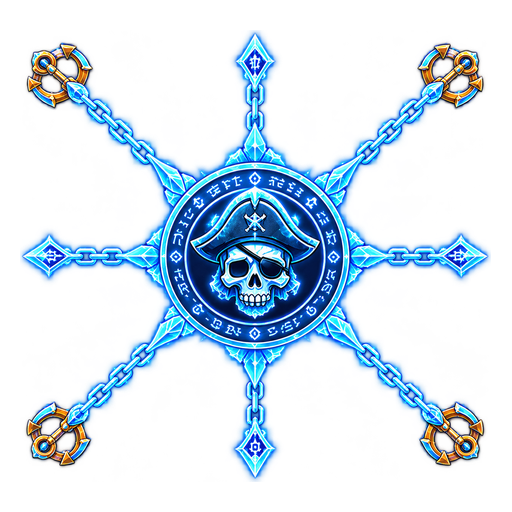
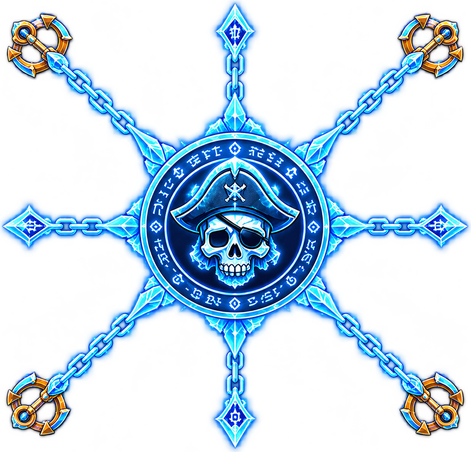
fix(annonces): l'annonce de bonus se posait HORS de l'ecran, et le givre couvre enfin les neuf cases
VOICI LE MESSAGE QUI S'AFFICHAIT DERRIERE L'ENCOCHE. `.dc-cast` — la carte qui
dit « untel a joue tel effet » — portait `bottom: calc(100% + 10px)`, ce qui
place un element ENTIEREMENT AU-DESSUS de son parent. La regle avait ete ecrite
pour un parent qui etait une petite barre au milieu de l'ecran ; le JS
l'accroche a `.dc-arena`, qui occupe TOUT l'ecran de jeu. « Au-dessus de
l'arene » voulait donc dire hors cadre, sous la barre de l'entete et sous
l'encoche de l'iPhone. La regle et le point d'accrochage avaient diverge, et
rien ne pouvait le signaler : une position hors cadre est parfaitement valide
pour le navigateur.

Elle revient AU CENTRE, la ou l'oeil est deja. La raison qui l'en avait chassee
— le gobelet flottait au milieu — a disparu depuis que le gobelet est dans le
bandeau du bas. La banniere courte s'ecarte a 26 % pour ne pas la recouvrir ;
elle n'a jamais ete celle qui passait sous l'encoche.

« LA GRILLE », CE N'EST NI LE BLOC NI LE PLATEAU : CE SONT LES NEUF CASES. Le
givre a couvert le bloc entier (plateau + plaques de score), puis le plateau
cadre de bois compris — deux tailles fausses de suite, parce que le pourcentage
se rapportait chaque fois a autre chose que ce qu'on regarde. Sa boite est
maintenant la zone des cases exactement : le plateau moins son lisere et moins
son cadre, deux reglages qu'on retranche au lieu de deviner un pourcentage.

Et un pourcentage n'aurait pas suffi, parce que l'image portait sa propre marge :
[…]

diff --git a/www/css/dice.css b/www/css/dice.css
@@ -1637,9 +1637,21 @@
    CARRE — trois cases carrees, deux ecarts, deux cadres, dans les deux sens —
    donc `aspect-ratio: 1` avec les deux bords lateraux colles suffit a retomber
    exactement dessus, sans mesurer quoi que ce soit en JS. */
+/* ⚠ « LA GRILLE », CE N'EST NI LE BLOC NI LE PLATEAU : CE SONT LES NEUF CASES.
+   Le givre a couvert le bloc entier (plateau + plaques de score), puis le
+   plateau (cadre de bois compris) — deux tailles fausses de suite, parce que
+   chaque fois le pourcentage se rapportait a autre chose que ce qu'on regarde.
+   Le dessin, lui, EST une grille de neuf cases gelees : ses quatre ancres se
+   posent dans les coins, ses quatre diamants sur les cotes. Pour qu'il tombe
+   juste, sa boite doit etre EXACTEMENT la zone des cases — le plateau moins son
+   lisere et moins son cadre de bois. Les deux sont des reglages du tableau de
+   bord ; on les retranche plutot que de deviner un pourcentage. */
 #dicewrap .dc-gel {
   position: absolute;
-  top: 0; left: 0; right: 0; bottom: auto;
+  top: calc(var(--cbt-plateau-lisere, 4px) + var(--cbt-plateau-cadre, 10px));
+  left: calc(var(--cbt-plateau-lisere, 4px) + var(--cbt-plateau-cadre, 10px));
+  right: calc(var(--cbt-plateau-lisere, 4px) + var(--cbt-plateau-cadre, 10px));
+  bottom: auto;
   aspect-ratio: 1;
   z-index: 12;
   display: flex; flex-direction: column; align-items: center; justify-content: center;
@@ -1653,15 +1665,15 @@
    deux cotes des que l'ecran etait etroit, et retrecissait pour rien sur une
    tablette ou le plateau, lui, grandissait. Il se mesure sur ce qu'il couvre.
 
-   ⚠ ET LES DEUX PREMIERS ESSAIS — 62 % PUIS 50 % — ETAIENT FAUX DES DEUX COTES.
-   Ils etaient pris sur `.dc-boardwrap`, qui est plus haut que le plateau : le
-   pourcentage ne se rapportait pas a la grille. Une fois la boite recalee sur
-   le plateau (ci-dessus), la question redevient simple — ce dessin EST une
-   grille gelee, ses chaines partent du centre vers les huit cases et ses ancres
-   se posent dans les coins. Il vaut donc la grille entiere, cadre de bois
-   deduit : 94 %. A la moitie il flottait au milieu comme un jeton oublie. */
+   ⚠ ET UN POURCENTAGE NE SUFFISAIT PAS, PARCE QUE L'IMAGE PORTAIT SA PROPRE
+   MARGE. Le fichier livre laissait 8 % de vide autour du dessin : a « 94 % de
+   la boite » on obtenait 86 % de dessin, et les ancres tombaient entre deux
+   cases. Le fichier a donc ete RECADRE sur son contenu (471 x 452 au lieu de
+   512 x 512, mesure a l'alpha), et le dessin remplit maintenant sa boite. Il
+   reste 2 % de jeu en hauteur, le dessin n'etant pas tout a fait carre : c'est
+   `contain` qui les repartit, en haut et en bas a parts egales. */
 #dicewrap .dc-gel img {
-  width: 94%; height: auto; max-height: 94%; object-fit: contain;
+  width: 100%; height: 100%; object-fit: contain;
   filter: drop-shadow(0 0 18px rgba(90, 200, 255, .85));
 }
 /* ⚠ LE LIBELLE S'ECRIVAIT EN TRAVERS DE LA RANGEE DU BAS. Cale sous le sceau
@@ -1896,7 +1908,7 @@
   pointer-events: none;
 }
 #dicewrap .dc-bulle.dc-msg-part { transform: scale(.92); }
-#dicewrap .dc-cast.dc-msg-part { transform: translateX(-50%) scale(.92); }
+#dicewrap .dc-cast.dc-msg-part { transform: translate(-50%, -50%) scale(.92); }
 
 /* Le quart du pont, ecrit au-dessus de sa plaque. Riche en or, pauvre en gris :
    la couleur porte l'information avant que le chiffre soit lu. */
@@ -1942,18 +1954,26 @@
 
 /* ── l'annonce d'un effet : plein cadre, et assez longue pour etre lue ────── */
 
-/* ⚠ AU MILIEU DE L'ARENE, C'EST-A-DIRE SUR LE GOBELET. Le centre exact est
-   occupe par la barre du lancer : l'annonce la recouvrait entierement, et le
-   joueur perdait de vue le seul bouton dont il a besoin — pendant 3,8 secondes,
-   a chaque effet joue. On la pose donc JUSTE AU-DESSUS de la ligne mediane :
-   elle reste au centre horizontalement, tombe sur le plateau d'en face (celui
-   qu'on regarde quand l'adversaire agit), et ne cache plus aucune commande. */
+/* ⛔ VOICI LE MESSAGE QUI S'AFFICHAIT AU-DESSUS DE LA BARRE DU JEU, DERRIERE
+   L'ENCOCHE. `bottom: calc(100% + 10px)` place un element ENTIEREMENT AU-DESSUS
+   de son parent — c'est ce qu'on veut quand le parent est une petite barre au
+   milieu de l'ecran, et c'est pour elle que cette regle avait ete ecrite. Mais
+   le JS accroche l'annonce a `.dc-arena`, qui occupe TOUT l'ecran de jeu :
+   « au-dessus de l'arene » veut alors dire hors de l'ecran, sous la barre de
+   l'entete et sous l'encoche de l'iPhone. La regle et le point d'accrochage
+   avaient diverge, et rien ne pouvait le signaler — une position hors cadre est
+   une position parfaitement valide pour le navigateur.
+
+   ⚠ ET LA RAISON D'ETRE MONTEE A DISPARU. On l'avait sortie du centre parce
+   que le gobelet y flottait ; le gobelet est descendu dans le bandeau du bas
+   depuis. Le centre est libre, et c'est la que l'oeil est : « ce message doit
+   s'afficher au centre du jeu pour comprendre. » */
 #dicewrap .dc-cast {
   position: absolute;
   inset-inline-start: 50%;
-  bottom: calc(100% + 10px);
-  transform: translateX(-50%);
-  z-index: 9;
+  top: 50%;
+  transform: translate(-50%, -50%);
+  z-index: 18;
   display: flex;
   align-items: center;
   gap: 14px;
@@ -2007,8 +2027,10 @@
 }
 #dicewrap .dc-cast-me .dc-cast-txt span { color: rgba(42, 26, 5, .82); }
 
+/* ⚠ L'IMAGE DE DEPART DOIT PORTER LA MEME TRANSLATION QUE L'ETAT FINAL, sinon
+   l'annonce part du coin et vient se recaler — un saut visible a chaque effet. */
 @keyframes dc-cast-in {
-  from { opacity: 0; transform: translateX(-50%) scale(.78); }
+  from { opacity: 0; transform: translate(-50%, -50%) scale(.78); }
 }
 
 /* La longue-vue fermee : un bouton qui porte ce qu'il reste. Un compteur sans
@@ -2483,9 +2505,12 @@
      bulle de l'adversaire contre le rectangle ; l'alerte de tour au-dessus
      d'elle ; ma bulle en dessous du rectangle ; le message de service au-dessus
      du bandeau. Cinq places, cinq objets. */
-  /* Par defaut au centre : une banniere qui ne vise personne — la table, une
-     regle, un evenement partage — n'a pas de cote. */
-  top: 42%;
+  /* ⚠ ELLE PARTAGEAIT LE CENTRE AVEC L'ANNONCE DE BONUS, qui vient de l'y
+     rejoindre. Deux messages au meme endroit s'annulent : celle-ci, courte,
+     monte sur le plateau d'en face — a 26 % de l'arene, c'est-a-dire BIEN
+     DEDANS. Elle n'a jamais ete celle qui passait sous l'encoche : c'etait
+     `.dc-cast`, posee hors cadre par un `bottom: calc(100% + 10px)`. */
+  top: 26%;
   z-index: 16;
   text-align: center;
   pointer-events: none;
